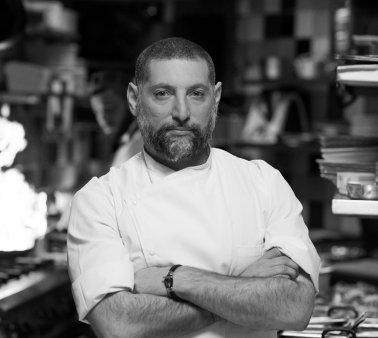
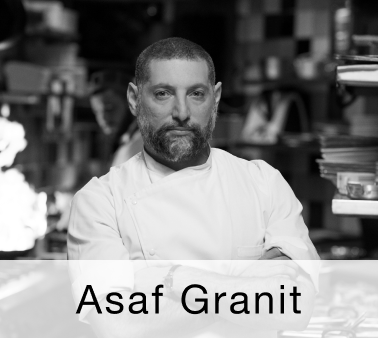
finish card all chef, includes style - 15.02

Changed region(s): [[0.0, 0.7692, 1.0, 1.0]]

diff --git a/src/component/All_chefs/All_chefs.css b/src/component/All_chefs/All_chefs.css
@@ -11,13 +11,12 @@
 }
 
 .all-chef-page-container{
-    display: flex;
-    flex-direction: row;
-    flex-wrap: wrap;
-    margin-top: 3%;
-    /* justify-content: center; */
-    width: 900px;
-    gap: 5%;
+    display: grid;
+    /* flex-direction: row;
+    flex-wrap: wrap; */
+    /* width: 810px; */
+    grid-template-columns: 30% 30% 30%;
+    gap: 2%;
 }
 
 .card-all-chef{
@@ -28,17 +27,7 @@
 
 .img-all-chef-card{
     width: 270px;
-    height: 220px;
+    height: 240px;
     object-fit: cover;
     padding: 10px;
-}
-.name-all-chef-card{
-    position: absolute;
-    bottom: 0;
-    left: 135px;
-    transform: translate(-50%);
-    width: 260px;
-    height: 50px;
-    align-items: center;    
-    background-color: beige;
 }

diff --git a/src/component/Card_week_chef/Card_week_chef.tsx b/src/component/Card_week_chef/Card_week_chef.tsx
@@ -28,7 +28,7 @@ const CardWeekChef: React.FC<Iprops> = (props:Iprops)=> {
         <div>
             <button className={`card-week-chef ${props.class}`} id="all-chefs-card" >
                 <img src={props.srcChef} alt={props.alt} className="img-week-chef-card"/>  
-                <div className="name-week-chef-card">{props.ChefName} </div>
+                {/* <div className="name-week-chef-card">{props.ChefName} </div> */}
             </button>
             <div className="info-week-chef-card">{props.info}</div>
             <div className="rest-title-week-chef-card">{props.restTitle}</div>

diff --git a/src/component/Card_all_chef/Card_all_chef.tsx b/src/component/Card_all_chef/Card_all_chef.tsx
@@ -20,7 +20,7 @@ const CardAllChef: React.FC<Iprops> = (props:Iprops)=> {
         <div>
             <button className={`card-all-chef ${props.class}`} >
                 <img src={props.srcChef} alt={props.alt} className="img-all-chef-card"/>  
-                <div className="name-all-chef-card">{props.ChefName} </div>
+                {/* <div className="name-all-chef-card">{props.ChefName} </div> */}
             </button>
         </div>
     ) 

diff --git a/src/component/Card_week_chef/Card_week_chef.css b/src/component/Card_week_chef/Card_week_chef.css
@@ -54,7 +54,7 @@
 .rest-title-week-chef-card {
     font-size: 24px;
     position: absolute;
-    top: 55vh;
+    top: 62vh;
     left: 256px;
 }
 
@@ -62,7 +62,7 @@
     display: flex;
     flex-direction: row;
     position: absolute;
-    top: 65vh;
+    top: 68vh;
     left: 256px;
     gap: 2%;
 }

diff --git a/src/component/HomePage/HomePage.tsx b/src/component/HomePage/HomePage.tsx
@@ -20,7 +20,7 @@ const HomePage: React.FC = () => {
             <div><Signature_dish /></div>
             <div><Icon_meaning /></div>
             <div><Week_chef /></div>
-            <div>  <About_us /></div>
+            <div><About_us /></div>
             <div><Footer /></div>
 
         </div>
